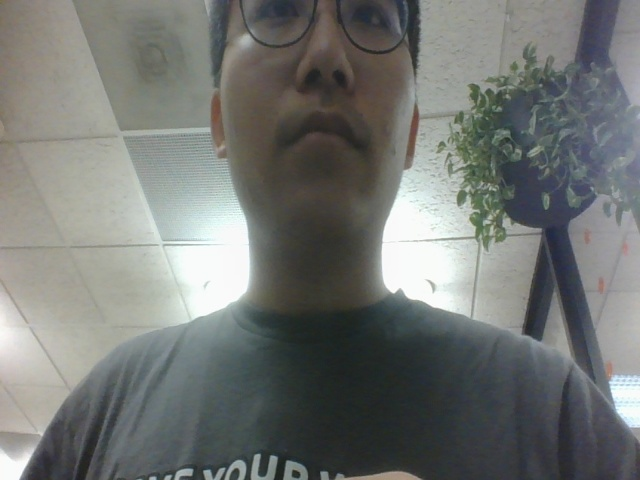
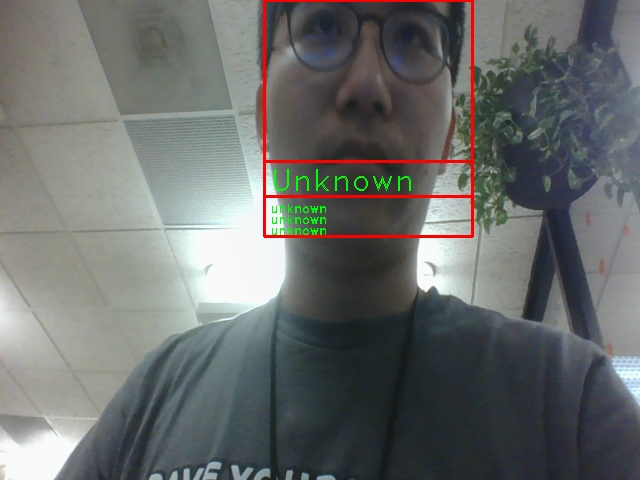
staged

diff --git a/face_reco.py b/face_reco.py
@@ -144,8 +144,8 @@ class face_reco():
                 break
 
 # Release handle to the webcam
-# r = reco()
+r = face_reco()
 # # r.start()
-# r.face_reco()
+r.reco()
 # video_capture.release()
 # cv2.destroyAllWindows()
